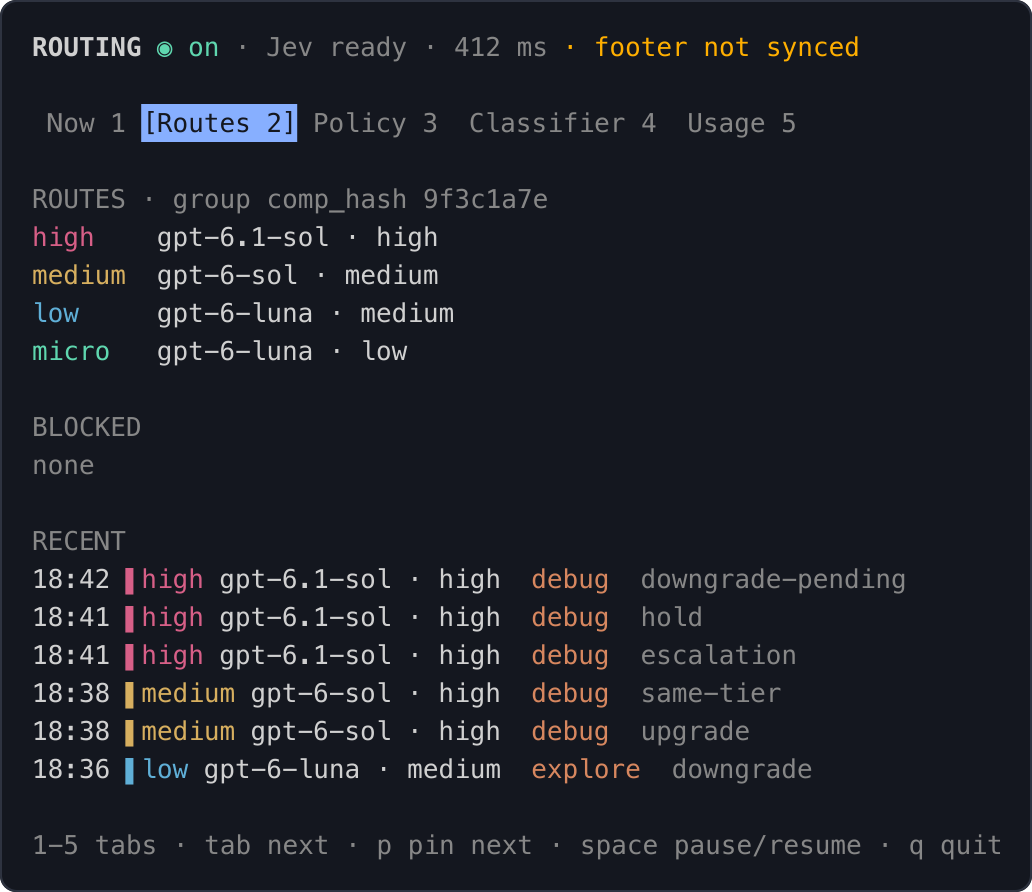
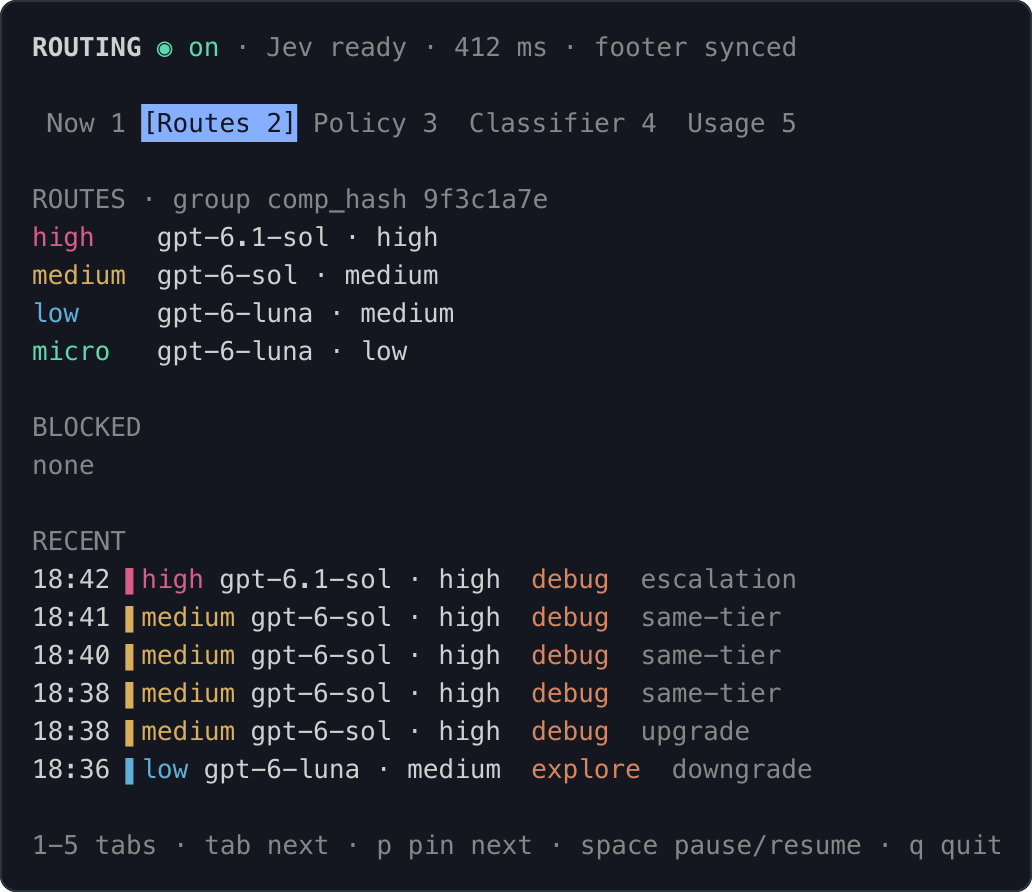
Render a Codex and panel split picture for the README
The sample snapshot now tells one story: a repeated test failure escalates
the turn to gpt-6.1-sol high and the footer is synced.

diff --git a/scripts/render-docs/main.go b/scripts/render-docs/main.go
@@ -6,7 +6,7 @@
 //
 // It writes one SVG per TUI tab and for the Codex footer capture, and a PNG
 // beside each when rsvg-convert is on PATH. The data is made up; it matches
-// the debugging session in docs/ui-selected.html.
+// the debugging session described in docs/user-guide.md.
 package main
 
 import (
@@ -39,14 +39,15 @@ var tabDescriptions = map[tui.Tab]string{
 func main() {
 	out := flag.String("out", "docs/images", "output directory")
 	footer := flag.String("footer", "docs/images/src/codex-footer.txt", "plain-text Codex footer capture")
+	session := flag.String("session", "docs/images/src/codex-session.txt", "Codex pane of the split picture, with ANSI colors")
 	flag.Parse()
-	if err := render(*out, *footer); err != nil {
+	if err := render(*out, *footer, *session); err != nil {
 		fmt.Fprintln(os.Stderr, "render-docs:", err)
 		os.Exit(1)
 	}
 }
 
-func render(out, footerPath string) error {
+func render(out, footerPath, sessionPath string) error {
 	if err := os.MkdirAll(out, 0o755); err != nil {
 		return err
 	}
@@ -64,7 +65,23 @@ func render(out, footerPath string) error {
 	}
 	lines := parseANSI(strings.TrimRight(string(text), "\n ") + "\n")
 	const footerDesc = "The Codex terminal UI while a turn runs. The footer line shows the model the router chose for the turn, GPT-6-Sol with medium effort, next to the branch, the context window and the remaining context."
-	return write(out, "codex-footer", toSVG(lines, "Codex footer showing the routed model", footerDesc))
+	if err := write(out, "codex-footer", toSVG(lines, "Codex footer showing the routed model", footerDesc)); err != nil {
+		return err
+	}
+	return renderSplit(out, sessionPath, snap)
+}
+
+// renderSplit draws the README picture: Codex on the left, the panel's Now
+// tab on the right, as two panes of one terminal.
+func renderSplit(out, sessionPath string, snap route.Snapshot) error {
+	text, err := os.ReadFile(sessionPath)
+	if err != nil {
+		return err
+	}
+	left := parseANSI(strings.TrimRight(string(text), "\n ") + "\n")
+	right := parseANSI(tui.Render(snap, tui.TabNow, panelWidth))
+	const desc = "A terminal split. Left: Codex runs a Go test that fails twice with an edit in between, and its footer shows GPT-6.1-Sol high. Right: the codex-router panel says this turn moved from gpt-6-sol medium to gpt-6.1-sol high because the same tool failure repeated, shows the classifier's tier and activity reading, the session's routed replies by tier, the estimated saving, and that the footer is synced."
+	return write(out, "codex-router-split", toSVG(sideBySide(left, right), "Codex and the codex-router panel side by side", desc))
 }
 
 // write saves name.svg and, when rsvg-convert exists, name.png.
@@ -89,7 +106,6 @@ func at(h, m int) time.Time { return time.Date(2026, 10, 13, h, m, 0, 0, time.UT
 func sampleSnapshot() route.Snapshot {
 	cfg := config.Default()
 	now := at(18, 43)
-	pin := config.TierHigh
 	solMed := config.Route{Model: "gpt-6-sol", Effort: config.EffortMedium}
 	solHigh := config.Route{Model: "gpt-6-sol", Effort: config.EffortHigh}
 	lunaMed := cfg.Routes[config.TierLow]
@@ -104,15 +120,16 @@ func sampleSnapshot() route.Snapshot {
 		step(18, 36, config.TierLow, config.ActivityExplore, lunaMed, policy.ReasonDowngrade),
 		step(18, 38, config.TierMedium, config.ActivityDebug, solHigh, policy.ReasonUpgrade),
 		step(18, 38, config.TierMedium, config.ActivityDebug, solHigh, policy.ReasonSameTier),
-		step(18, 41, config.TierHigh, config.ActivityDebug, sol61, policy.ReasonEscalation),
-		step(18, 41, config.TierHigh, config.ActivityDebug, sol61, policy.ReasonHold),
-		step(18, 42, config.TierHigh, config.ActivityDebug, sol61, policy.ReasonDowngradePending),
+		step(18, 40, config.TierMedium, config.ActivityDebug, solHigh, policy.ReasonSameTier),
+		step(18, 41, config.TierMedium, config.ActivityDebug, solHigh, policy.ReasonSameTier),
+		step(18, 42, config.TierHigh, config.ActivityDebug, sol61, policy.ReasonEscalation),
 	}
 	last := recent[len(recent)-1]
 	last.Original = solMed
 	last.Rewritten = true
-	last.Why = "waiting to go down: same task, no passed check since the last switch"
-	last.Support = "Jev gave cheaper tiers 62% (needs 90%)"
+	last.MidTurn = true
+	last.Why = "escalate: same tool failure twice, edit in between"
+	last.Support = "no classifier needed · switch ≈ 38k uncached tokens"
 	last.Reading = &route.Reading{
 		Tiers:      map[config.Tier]float64{config.TierMicro: 0.02, config.TierLow: 0.09, config.TierMedium: 0.71, config.TierHigh: 0.18},
 		Activity:   config.ActivityDebug,
@@ -138,10 +155,9 @@ func sampleSnapshot() route.Snapshot {
 		At:              now,
 		Mode:            route.ModeOn,
 		Preset:          cfg.Preset,
-		Pin:             &pin,
 		Baseline:        solMed,
-		Footer:          solMed,
-		FooterSynced:    false,
+		Footer:          sol61,
+		FooterSynced:    true,
 		Last:            &last,
 		Recent:          recent,
 		Classifier:      classifier.Health{Latency: 412 * time.Millisecond},
@@ -155,7 +171,7 @@ func sampleSnapshot() route.Snapshot {
 			ByActivity:       map[config.Activity]int{config.ActivityCode: 53, config.ActivityDebug: 38, config.ActivityExplore: 27, config.ActivityPlan: 9, config.ActivityReview: 7, config.ActivityOps: 6, config.ActivityDocs: 4},
 			Strip:            strip,
 			RepliesPerCell:   4,
-			LastSwitch:       &route.Switch{At: at(18, 41), From: config.TierMedium, To: config.TierHigh, Activity: config.ActivityDebug, MidTurn: true},
+			LastSwitch:       &route.Switch{At: at(18, 42), From: config.TierMedium, To: config.TierHigh, Activity: config.ActivityDebug, MidTurn: true},
 			CacheReusePct:    64,
 			LastInputTokens:  44_000,
 			LastCachedTokens: 42_700,

diff --git a/scripts/render-docs/svg.go b/scripts/render-docs/svg.go
@@ -230,3 +230,30 @@ func toSVG(lines [][]run, title, desc string) string {
 	b.WriteString("</svg>\n")
 	return b.String()
 }
+
+// sideBySide joins two panes like a terminal split: left padded to its widest
+// line, a divider, then right. The shorter pane gets blank lines on top so
+// both end on the same row, as a prompt and a status line do.
+func sideBySide(left, right [][]run) [][]run {
+	width := 0
+	for _, l := range left {
+		width = max(width, runWidth(l))
+	}
+	rows := max(len(left), len(right))
+	left = padTop(left, rows)
+	right = padTop(right, rows)
+	divider := run{" │ ", style{fg: frameLine}}
+	out := make([][]run, rows)
+	for i := range rows {
+		line := append([]run{}, left[i]...)
+		if pad := width - runWidth(left[i]); pad > 0 {
+			line = append(line, run{strings.Repeat(" ", pad), style{}})
+		}
+		out[i] = append(append(line, divider), right[i]...)
+	}
+	return out
+}
+
+func padTop(lines [][]run, rows int) [][]run {
+	return append(make([][]run, rows-len(lines)), lines...)
+}

diff --git a/scripts/render-docs/svg_test.go b/scripts/render-docs/svg_test.go
@@ -73,3 +73,22 @@ func TestToSVGSizeFollowsGrid(t *testing.T) {
 		t.Errorf("svg lacks %s\n%s", want, svg)
 	}
 }
+
+func TestSideBySide(t *testing.T) {
+	left := [][]run{{{"ab", style{}}}, {{"c", style{}}}}
+	right := [][]run{{{"1", style{}}}, {{"2", style{}}}, {{"3", style{}}}}
+	got := sideBySide(left, right)
+	want := []string{"   │ 1", "ab │ 2", "c  │ 3"}
+	if len(got) != len(want) {
+		t.Fatalf("rows = %d, want %d", len(got), len(want))
+	}
+	for i, l := range got {
+		var b strings.Builder
+		for _, r := range l {
+			b.WriteString(r.text)
+		}
+		if b.String() != want[i] {
+			t.Errorf("row %d = %q, want %q", i, b.String(), want[i])
+		}
+	}
+}

diff --git a/cmd/codex-router/main.go b/cmd/codex-router/main.go
@@ -1,5 +1,5 @@
 // Command codex-router routes Codex CLI requests to a model and reasoning
-// effort per step. See docs/research.md and docs/architecture-options.html.
+// effort per step. See docs/architecture.md and docs/user-guide.md.
 package main
 
 import (
